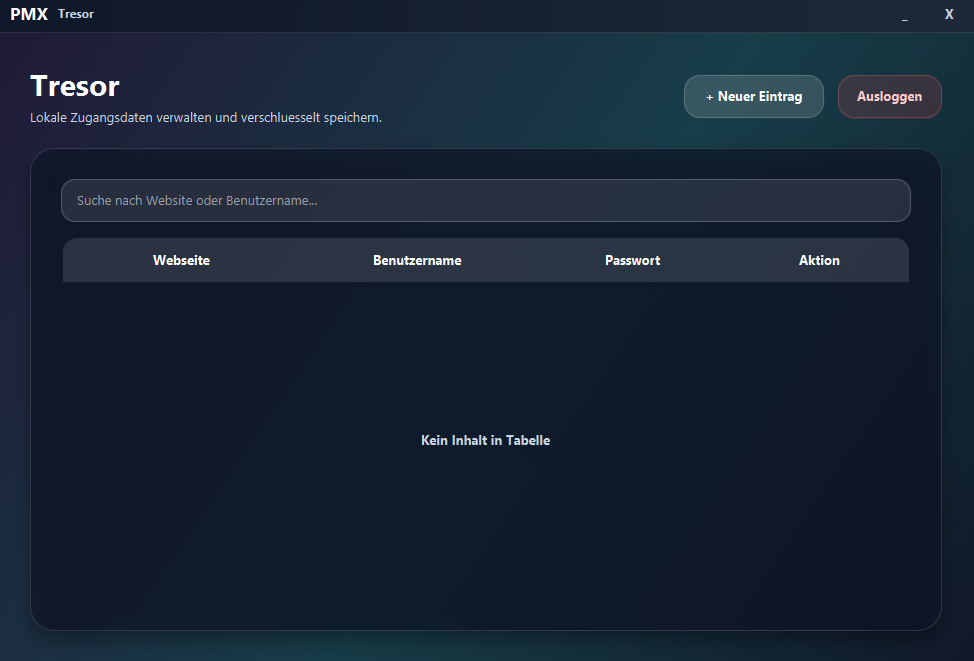
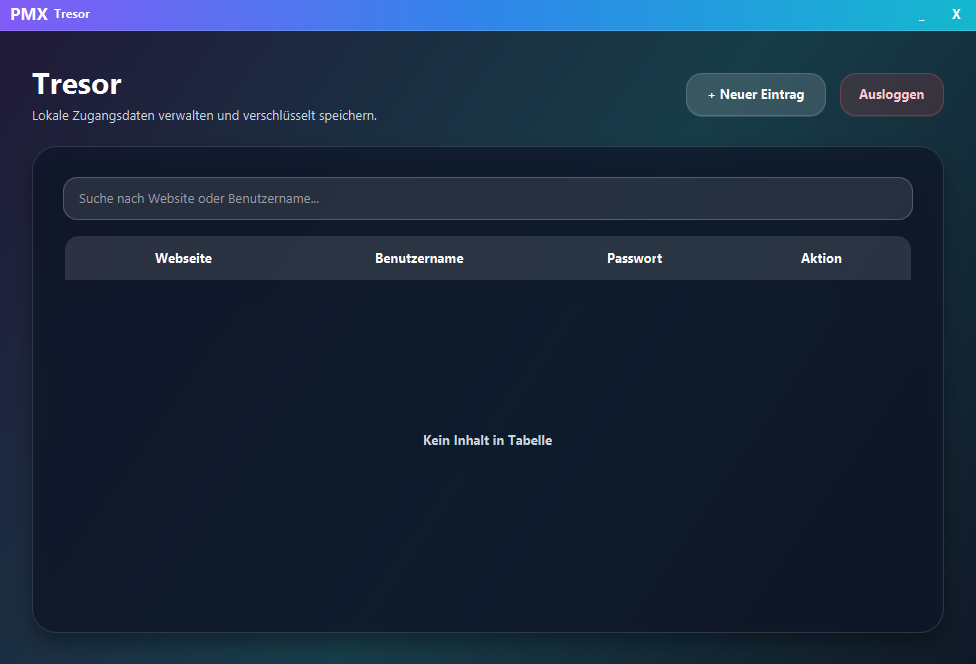
Update PMX window text and screenshots

diff --git a/src/main/java/controller/RegisterController.java b/src/main/java/controller/RegisterController.java
@@ -13,7 +13,7 @@ import crypto.KeyStoreService;           // KEK-Ableitung, Wrap/Unwrap, DEK
 import javafx.fxml.FXML;                 // @FXML-Bindings
 import javafx.scene.control.Label;       // Meldungen
 import javafx.scene.control.PasswordField; // Passwort-Eingaben
-import javafx.scene.control.TextField;   // Text-/Recovery-Key-Anzeige
+import javafx.scene.control.TextField;   // Text-/Recovery Key-Anzeige
 
 import java.security.SecureRandom;
 
@@ -64,12 +64,12 @@ public class RegisterController {
         }
 
         try {
-            // 1) Recovery-Key (kurzes, gut ablesbares Format)
+            // 1) Recovery Key (kurzes, gut ablesbares Format)
             String recoveryKey = generateRecoveryKey();
             recoveryKeyField.setText(recoveryKey);
             recoveryKeyField.selectAll();
 
-            // 2) Recovery-Key als Hash speichern (mit eigenem Salt)
+            // 2) Recovery Key als Hash speichern (mit eigenem Salt)
             byte[] recSalt = HashUtil.generateSalt();
             String recSaltB64 = HashUtil.encodeBase64(recSalt);
             String recHash = HashUtil.hashWithSalt(recoveryKey, recSalt);
@@ -85,7 +85,7 @@ public class RegisterController {
             byte[] kekPw  = KeyStoreService.deriveKek(pw1.toCharArray(), saltPw);
             KeyStoreService.Wrapped wPw = KeyStoreService.wrapKey(dek, kekPw);
 
-            // 6) DEK mit Recovery-Key wrappen (Recovery-Salt)
+            // 6) DEK mit Recovery Key wrappen (Recovery-Salt)
             byte[] saltRec = KeyStoreService.random(16);
             byte[] kekRec  = KeyStoreService.deriveKek(recoveryKey.toCharArray(), saltRec);
             KeyStoreService.Wrapped wRec = KeyStoreService.wrapKey(dek, kekRec);
@@ -97,7 +97,7 @@ public class RegisterController {
                     wRec.ctB64(), wRec.ivB64(), HashUtil.encodeBase64(saltRec)
             );
 
-            show("Benutzer erstellt! Recovery-Key angezeigt – bitte sicher aufbewahren.");
+            show("Benutzer erstellt! Recovery Key angezeigt – bitte sicher aufbewahren.");
         } catch (Exception e) {
             e.printStackTrace();
             show("Fehler beim Erstellen des Benutzers.");

diff --git a/src/main/java/controller/LoginController.java b/src/main/java/controller/LoginController.java
@@ -2,7 +2,7 @@ package controller;
 
 
 
-// App-Status (aktueller Benutzer, Master-Passwort, DEK)
+// App-Status (aktueller Benutzer, Master Passwort, DEK)
 import app.AppState;
 
 // Datenbank-Zugriff
@@ -57,7 +57,7 @@ public class LoginController {
                 return;
             }
 
-            // 2) AppState aktualisieren (User + Master-Passwort im RAM)
+            // 2) AppState aktualisieren (User + Master Passwort im RAM)
             AppState.getInstance().setCurrentUser(username);
             AppState.getInstance().setMasterPassword(password.toCharArray());
 
@@ -85,7 +85,7 @@ public class LoginController {
             Parent root = loader.load();
             Stage stage = (Stage) usernameField.getScene().getWindow();
             stage.setScene(new Scene(root));
-            stage.setTitle("PMX - Tresor");
+            stage.setTitle("PMX Tresor");
             // stage.show(); // nicht nötig, vorhandenes Fenster
 
         } catch (Exception e) {

diff --git a/src/main/java/controller/RecoveryController.java b/src/main/java/controller/RecoveryController.java
@@ -48,7 +48,7 @@ public class RecoveryController {
         }
 
         try {
-            // 1) Recovery-Key gegen gespeicherten Hash prüfen (mit recoverySalt)
+            // 1) Recovery Key gegen gespeicherten Hash prüfen (mit recoverySalt)
             String recHash  = userRepo.getRecoveryHash(username);
             String recSaltB = userRepo.getRecoverySalt(username);
             if (recHash == null || recSaltB == null) {
@@ -58,7 +58,7 @@ public class RecoveryController {
             byte[] recHashSalt = HashUtil.decodeBase64(recSaltB);     // nur für Hashvergleich
             String recCalc = HashUtil.hashWithSalt(recoveryKey, recHashSalt);
             if (!recHash.equals(recCalc)) {
-                show("Recovery-Key ist ungültig.");
+                show("Recovery Key ist ungültig.");
                 return;
             }
 

diff --git a/src/main/java/controller/VaultController.java b/src/main/java/controller/VaultController.java
@@ -352,7 +352,7 @@ public class VaultController {
 
             Stage stage = (Stage) vaultTable.getScene().getWindow();
             stage.setScene(new Scene(root, 480, 560));
-            stage.setTitle("PMX - Login");
+            stage.setTitle("PMX Login");
         } catch (IOException ex) {
             ex.printStackTrace();
             showModal("Fehler", "Login konnte nicht geladen werden.");